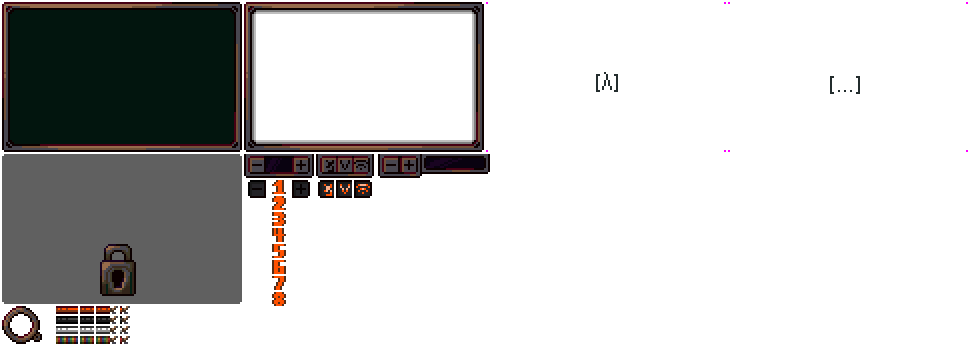
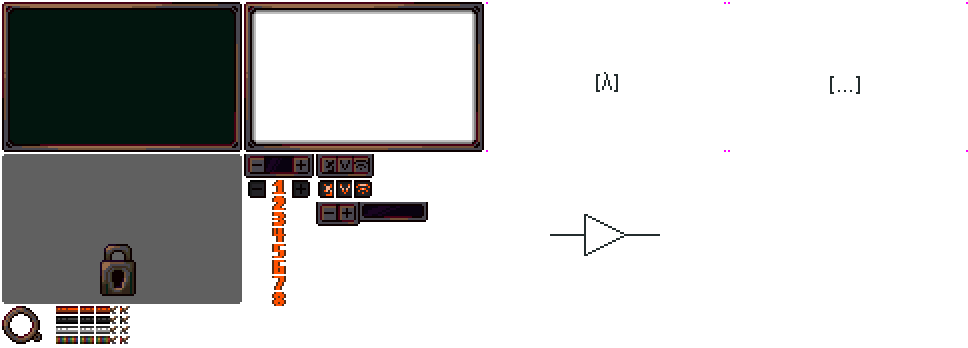
Lockout now based on item

diff --git a/Items/Tools/Wiring/Logic_Gate_Data.cs b/Items/Tools/Wiring/Logic_Gate_Data.cs
@@ -106,19 +106,10 @@ namespace Origins.Items.Tools.Wiring {
 					case 0b111:
 					case 0b011:
 					case 0b001:
-					return SetupWires(root,
-						wires => Data.Wires.GetWires(out wires[0], out wires[1], out wires[2]),
-						wires => {
-							if (wires.Contains(-1)) return false;
-							Logic_Gate_Data.SetWires(Position, Logic_Gate_Data.LogicGateWires.Create(wires[0], wires[1], wires[2]));
-							return true;
-						},
-						new(24, 36),
-						new(24, 94),
-						new(176, 62, true)
-					);
+					return TwoInputs(root);
 
 					case 0b101:
+					root.Append(new UIImageFramed(ComponentUI.Textures, new(486, 154, 240, 150)));
 					return SetupWires(root,
 						wires => Data.Wires.GetWires(out wires[0], out _, out wires[1]),
 						wires => {
@@ -131,6 +122,20 @@ namespace Origins.Items.Tools.Wiring {
 					);
 				}
 				return null;
+
+				Action TwoInputs(UIElement root) {
+					return SetupWires(root,
+						wires => Data.Wires.GetWires(out wires[0], out wires[1], out wires[2]),
+						wires => {
+							if (wires.Contains(-1)) return false;
+							Logic_Gate_Data.SetWires(Position, Logic_Gate_Data.LogicGateWires.Create(wires[0], wires[1], wires[2]));
+							return true;
+						},
+						new(24, 36),
+						new(24, 94),
+						new(176, 62, true)
+					);
+				}
 			}
 		}
 		class Logic_Gate_Interaction : GlobalTile {
@@ -434,6 +439,7 @@ namespace Origins.Items.Tools.Wiring {
 		}
 		public interface IComponentUI {
 			public bool ShouldClose { get; }
+			public bool Locked => Main.LocalPlayer.OriginPlayer().InfoAccMechModifyComponents;
 			public Vector2 StartPosition { get; }
 			Action Initialize(UIElement root);
 			public bool Equals(IComponentUI other);
@@ -467,7 +473,7 @@ namespace Origins.Items.Tools.Wiring {
 						HAlign = 0.5f
 					}
 					.MoveTo(uiSource.StartPosition - new Vector2(Main.screenWidth * 0.5f, 0))
-					.Execute(UIDragController.Attach(_ => border.IsMouseHovering))
+					.Execute(UIDragController.Attach(new(_ => border.IsMouseHovering)))
 					.StopClickThrough()
 					.Execute(uiSource.Initialize, ref onDeactivate)
 					.Execute(root => root.Append(border))
@@ -482,8 +488,8 @@ namespace Origins.Items.Tools.Wiring {
 					return !dimensions.Contains(point);
 				}
 			}
-			static void Lockout(UIElement root) {
-				if (!Main.LocalPlayer.controlDown) return;
+			void Lockout(UIElement root) {
+				if (uiSource.Locked) return;
 				root.Append(new UIImageFramed(Textures, new(2, 154, 240, 150)) {
 					IgnoresMouseInteraction = false
 				});
@@ -536,7 +542,6 @@ namespace Origins.Items.Tools.Wiring {
 			public class DraggableWire : UIElement {
 				readonly int wireType;
 				readonly Socket[] sockets;
-				readonly int[] wires;
 				readonly Func<bool> isDragging;
 				int connectedTo = -1;
 				Vector2? disconnectedPosition;
@@ -544,7 +549,6 @@ namespace Origins.Items.Tools.Wiring {
 				public DraggableWire(int wireType, Socket[] sockets, int[] wires, ApplySockets apply, Action shockPlayer) {
 					this.wireType = wireType;
 					this.sockets = sockets;
-					this.wires = wires;
 					Width.Set(10, 0);
 					Height.Set(10, 0);
 					for (int i = 0; i < sockets.Length; i++) {
@@ -553,12 +557,13 @@ namespace Origins.Items.Tools.Wiring {
 							break;
 						}
 					}
-					isDragging = UIDragController.Attach(this,
-						pickUp: () => {
+					isDragging = UIDragController.Attach(this, new(
+						PickUp: () => {
 							if (connectedTo >= 0) wires[connectedTo] = -1;
 							connectedTo = -1;
 						},
-						drop: () => {
+						ModifyOffset: (ref Vector2 position) => position += Main.MouseScreen - GetDimensions().Center(),
+						Drop: () => {
 							Vector2 center = GetDimensions().Center();
 							for (int i = 0; i < sockets.Length; i++) {
 								if (sockets[i].ContainsPoint(center)) {
@@ -582,9 +587,7 @@ namespace Origins.Items.Tools.Wiring {
 							}
 							SetToRestPos();
 						}
-					);
-				}
-				public override void OnInitialize() {
+					));
 				}
 				public override void OnActivate() {
 					CalculatedStyle parent = Parent.GetDimensions();

diff --git a/UI/UIDragController.cs b/UI/UIDragController.cs
@@ -22,20 +22,22 @@ namespace Origins.UI {
 			dragging = true;
 			offset = new Vector2(element.Left.Pixels, element.Top.Pixels) - Main.MouseScreen;
 		}
-		public static Action<UIElement> Attach(Predicate<Vector2> shouldDrag = null, Action pickUp = null, Action drop = null, bool clamp = true, bool stopClickThrough = false) {
-			return element => Attach(element, shouldDrag, pickUp, drop, clamp, stopClickThrough);
+		public delegate void Modify<T>(ref T value);
+		public static Action<UIElement> Attach(AttachParameters parameters) {
+			return element => Attach(element, parameters);
 		}
-		public static Func<bool> Attach(UIElement element, Predicate<Vector2> shouldDrag = null, Action pickUp = null, Action drop = null, bool clamp = true, bool stopClickThrough = false) {
+		public static Func<bool> Attach(UIElement element, AttachParameters parameters) {
 			UIDragController dragController = new(element);
-			shouldDrag ??= _ => true;
+			parameters.ShouldDrag ??= _ => true;
 			element.OnLeftMouseDown += (evt, _) => {
-				if (!dragController.dragging && shouldDrag(Main.MouseScreen - new Vector2(element.Left.Pixels, element.Top.Pixels))) {
-					pickUp?.Invoke();
+				if (!dragController.dragging && parameters.ShouldDrag(Main.MouseScreen - new Vector2(element.Left.Pixels, element.Top.Pixels))) {
+					parameters.PickUp?.Invoke();
 					dragController.Click();
+					parameters.ModifyOffset(ref dragController.offset);
 				}
 			};
-			element.OnUpdate += _ => dragController.Update(drop);
-			if (clamp) element.OnUpdate += _ => {
+			element.OnUpdate += _ => dragController.Update(parameters.Drop);
+			if (parameters.Clamp) element.OnUpdate += _ => {
 				CalculatedStyle dimensions = element.GetOuterDimensions();
 				CalculatedStyle parentDimensions = element.Parent?.GetDimensions() ?? new(0, 0, Main.screenWidth, Main.screenHeight);
 				float maxX = parentDimensions.X + parentDimensions.Width - dimensions.Width;
@@ -45,10 +47,18 @@ namespace Origins.UI {
 				Clamp(ref element.Left.Pixels, offsetX, maxX + offsetX);
 				Clamp(ref element.Top.Pixels, offsetY, maxY + offsetY);
 			};
-			if (stopClickThrough) element.OnUpdate += _ => {
-				if (element.IsMouseHovering && shouldDrag(Main.MouseScreen - new Vector2(element.Left.Pixels, element.Top.Pixels))) Main.LocalPlayer.mouseInterface = true;
+			if (parameters.StopClickThrough) element.OnUpdate += _ => {
+				if (element.IsMouseHovering && parameters.ShouldDrag(Main.MouseScreen - new Vector2(element.Left.Pixels, element.Top.Pixels))) Main.LocalPlayer.mouseInterface = true;
 			};
 			return () => dragController.dragging;
 		}
+		public record struct AttachParameters(
+			Predicate<Vector2> ShouldDrag = null,
+			Action PickUp = null,
+			Modify<Vector2> ModifyOffset = null,
+			Action Drop = null,
+			bool Clamp = true,
+			bool StopClickThrough = false
+		);
 	}
 }

diff --git a/Player/Variables.cs b/Player/Variables.cs
@@ -567,6 +567,7 @@ namespace Origins {
 		public Vector2? dreamcatcherWorldPosition = null;
 		public bool pocketDimensionMonolithActive = false;
 		public bool InfoAccMechShowAshenWires = false;
+		[AutoReset] public bool InfoAccMechModifyComponents = false;
 		public int blastFurnaceCharges = 0;
 		public List<int> unlockedPlantModes = [];
 		List<ItemDefinition> unloadedPlantModes = [];

diff --git a/Items/Tools/Wiring/Ashen_Wrench.cs b/Items/Tools/Wiring/Ashen_Wrench.cs
@@ -53,6 +53,7 @@ namespace Origins.Items.Tools.Wiring {
 			player.rulerLine = true;
 			player.rulerGrid = true;
 			player.OriginPlayer().InfoAccMechShowAshenWires = true;
+			player.OriginPlayer().InfoAccMechModifyComponents = true;
 		}
 		public override void AddRecipes() => CreateRecipe()
 			.AddIngredient(ItemID.WireKite)
